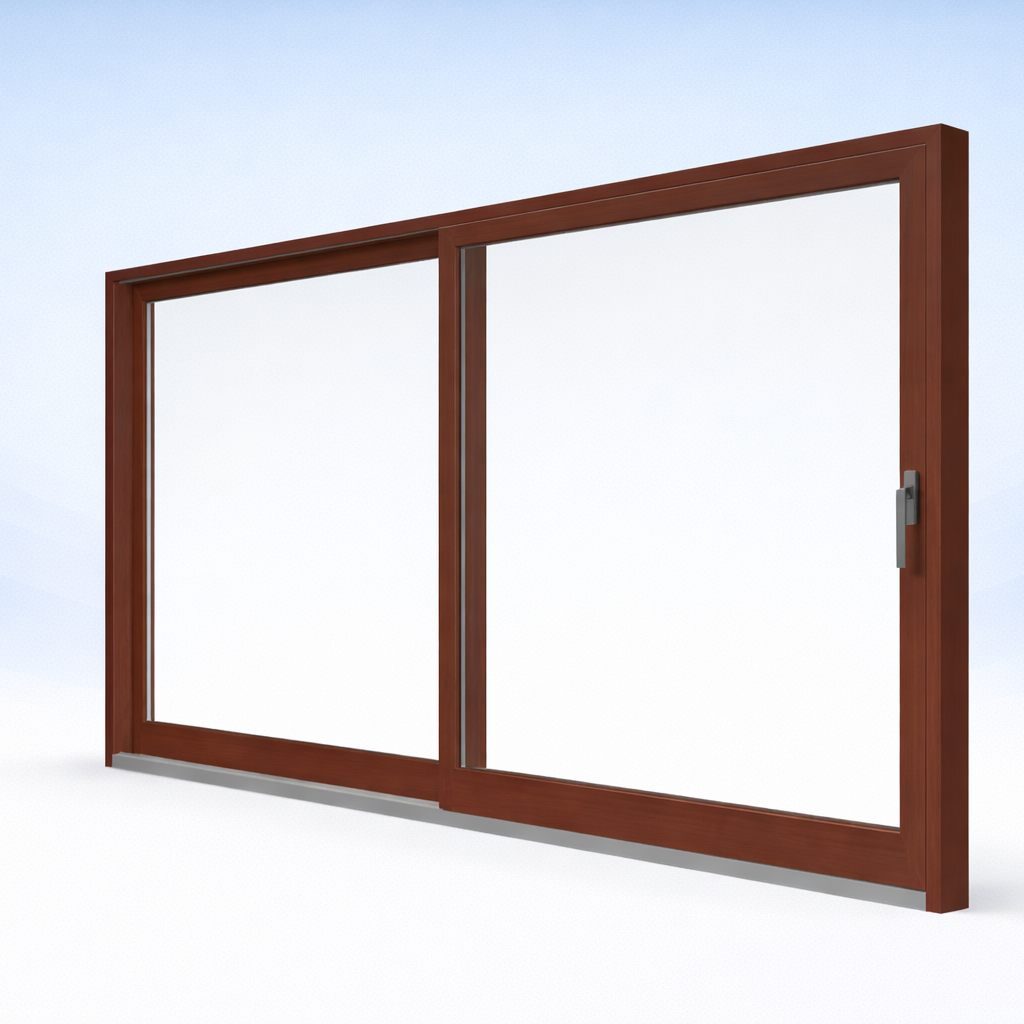
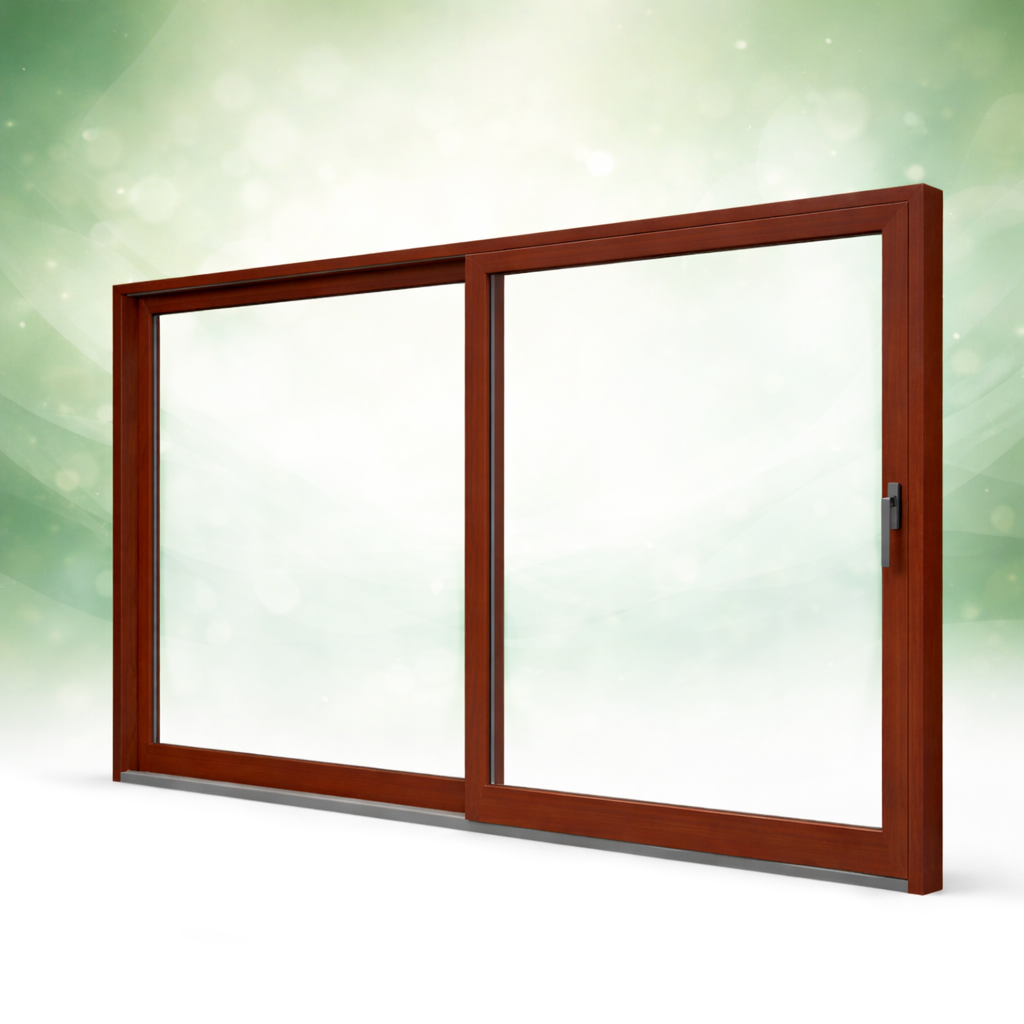
Update tails graphics

diff --git a/src/pages/HomePage.jsx b/src/pages/HomePage.jsx
@@ -58,7 +58,7 @@ const HomePage = () => {
       id: PRODUCT_TYPES.WINDOWS,
       name: t('products.windows.name'),
       description: t('products.windows.description'),
-      backgroundSrc: '/images/aboutus/okno-kafelka.png',
+      backgroundSrc: '/images/aboutus/okno-kafelka2.png',
       videoSrc: VIDEO_SOURCES.WINDOWS,
     },
     [PRODUCT_TYPES.DOORS]: {
